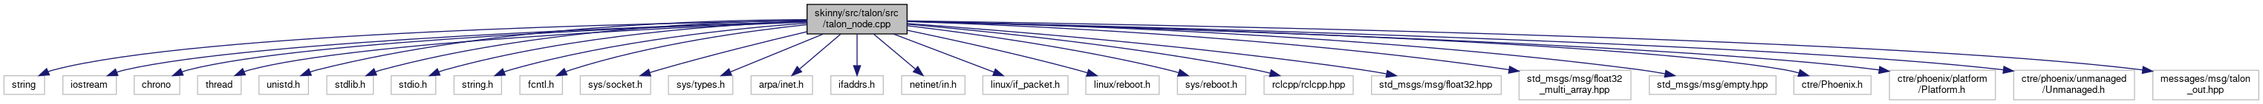
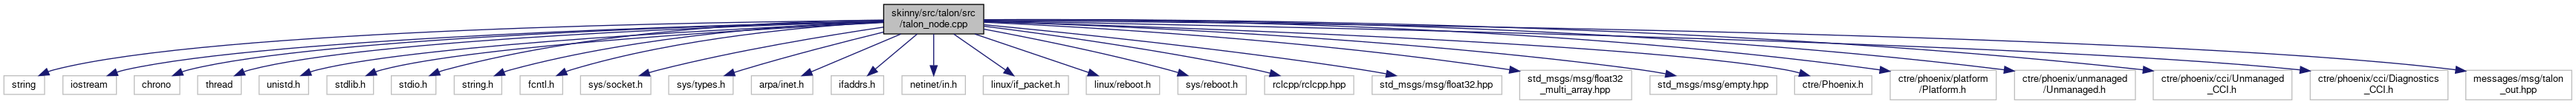
deploy: 57c031a6a6345d7536ecdb02c48884edd0939d13

diff --git a/talon__node_8cpp.html b/talon__node_8cpp.html
@@ -100,13 +100,15 @@ $(function() {
 <code>#include &lt;ctre/Phoenix.h&gt;</code><br />
 <code>#include &lt;ctre/phoenix/platform/Platform.h&gt;</code><br />
 <code>#include &lt;ctre/phoenix/unmanaged/Unmanaged.h&gt;</code><br />
+<code>#include &lt;ctre/phoenix/cci/Unmanaged_CCI.h&gt;</code><br />
+<code>#include &lt;ctre/phoenix/cci/Diagnostics_CCI.h&gt;</code><br />
 <code>#include &quot;messages/msg/talon_out.hpp&quot;</code><br />
 </div><div class="textblock"><div class="dynheader">
 Include dependency graph for talon_node.cpp:</div>
 <div class="dyncontent">
 <div class="center"><img src="talon__node_8cpp__incl.png" border="0" usemap="#askinny_2src_2talon_2src_2talon__node_8cpp" alt=""/></div>
 <map name="askinny_2src_2talon_2src_2talon__node_8cpp" id="askinny_2src_2talon_2src_2talon__node_8cpp">
-<area shape="rect" title="Brief description of file Detailed description of file." alt="" coords="1087,5,1221,47"/>
+<area shape="rect" title="Brief description of file Detailed description of file." alt="" coords="1189,5,1324,47"/>
 <area shape="rect" title=" " alt="" coords="5,102,60,129"/>
 <area shape="rect" title=" " alt="" coords="85,102,157,129"/>
 <area shape="rect" title=" " alt="" coords="181,102,242,129"/>
@@ -131,7 +133,9 @@ Include dependency graph for talon_node.cpp:</div>
 <area shape="rect" title=" " alt="" coords="2415,102,2519,129"/>
 <area shape="rect" title=" " alt="" coords="2544,95,2687,136"/>
 <area shape="rect" title=" " alt="" coords="2711,95,2874,136"/>
-<area shape="rect" title=" " alt="" coords="2899,95,3041,136"/>
+<area shape="rect" title=" " alt="" coords="2898,95,3085,136"/>
+<area shape="rect" title=" " alt="" coords="3109,95,3295,136"/>
+<area shape="rect" title=" " alt="" coords="3319,95,3461,136"/>
 </map>
 </div>
 </div><table class="memberdecls">
